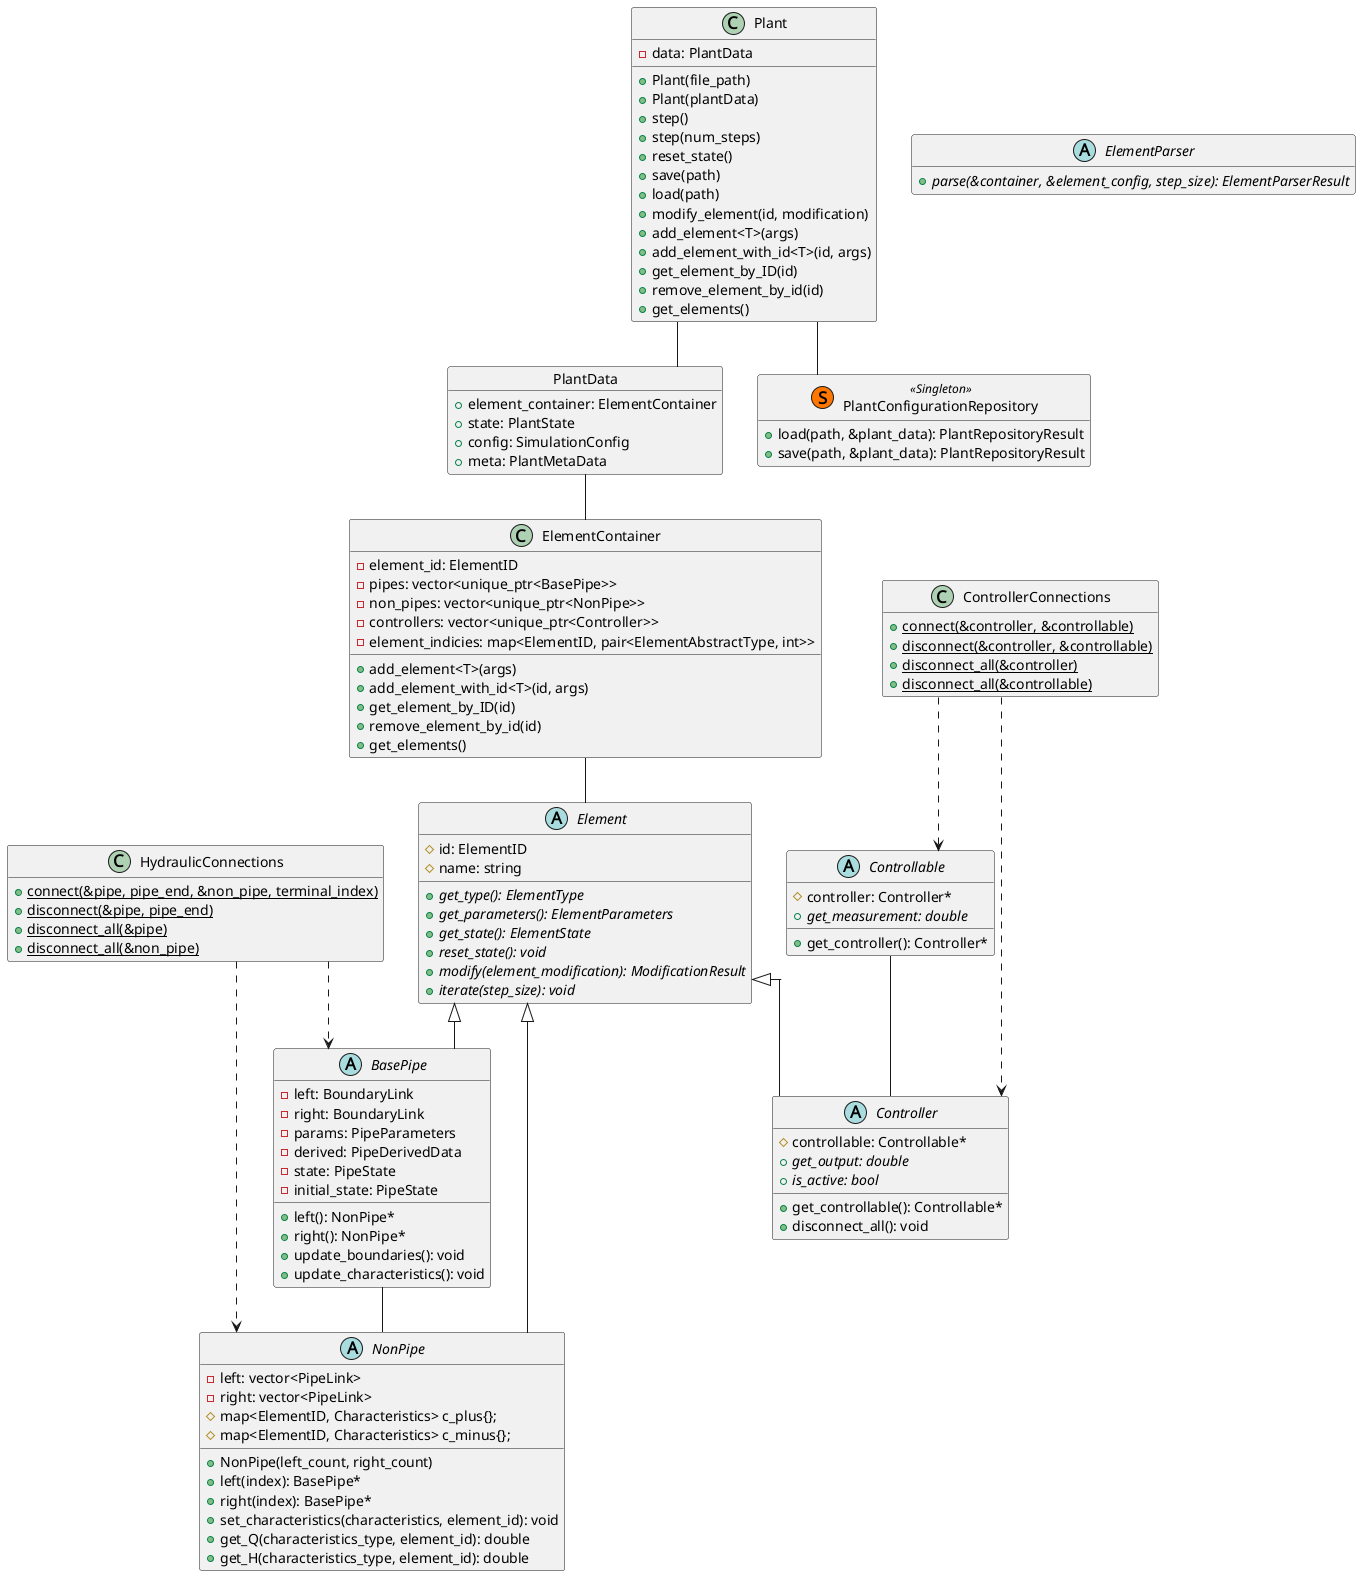
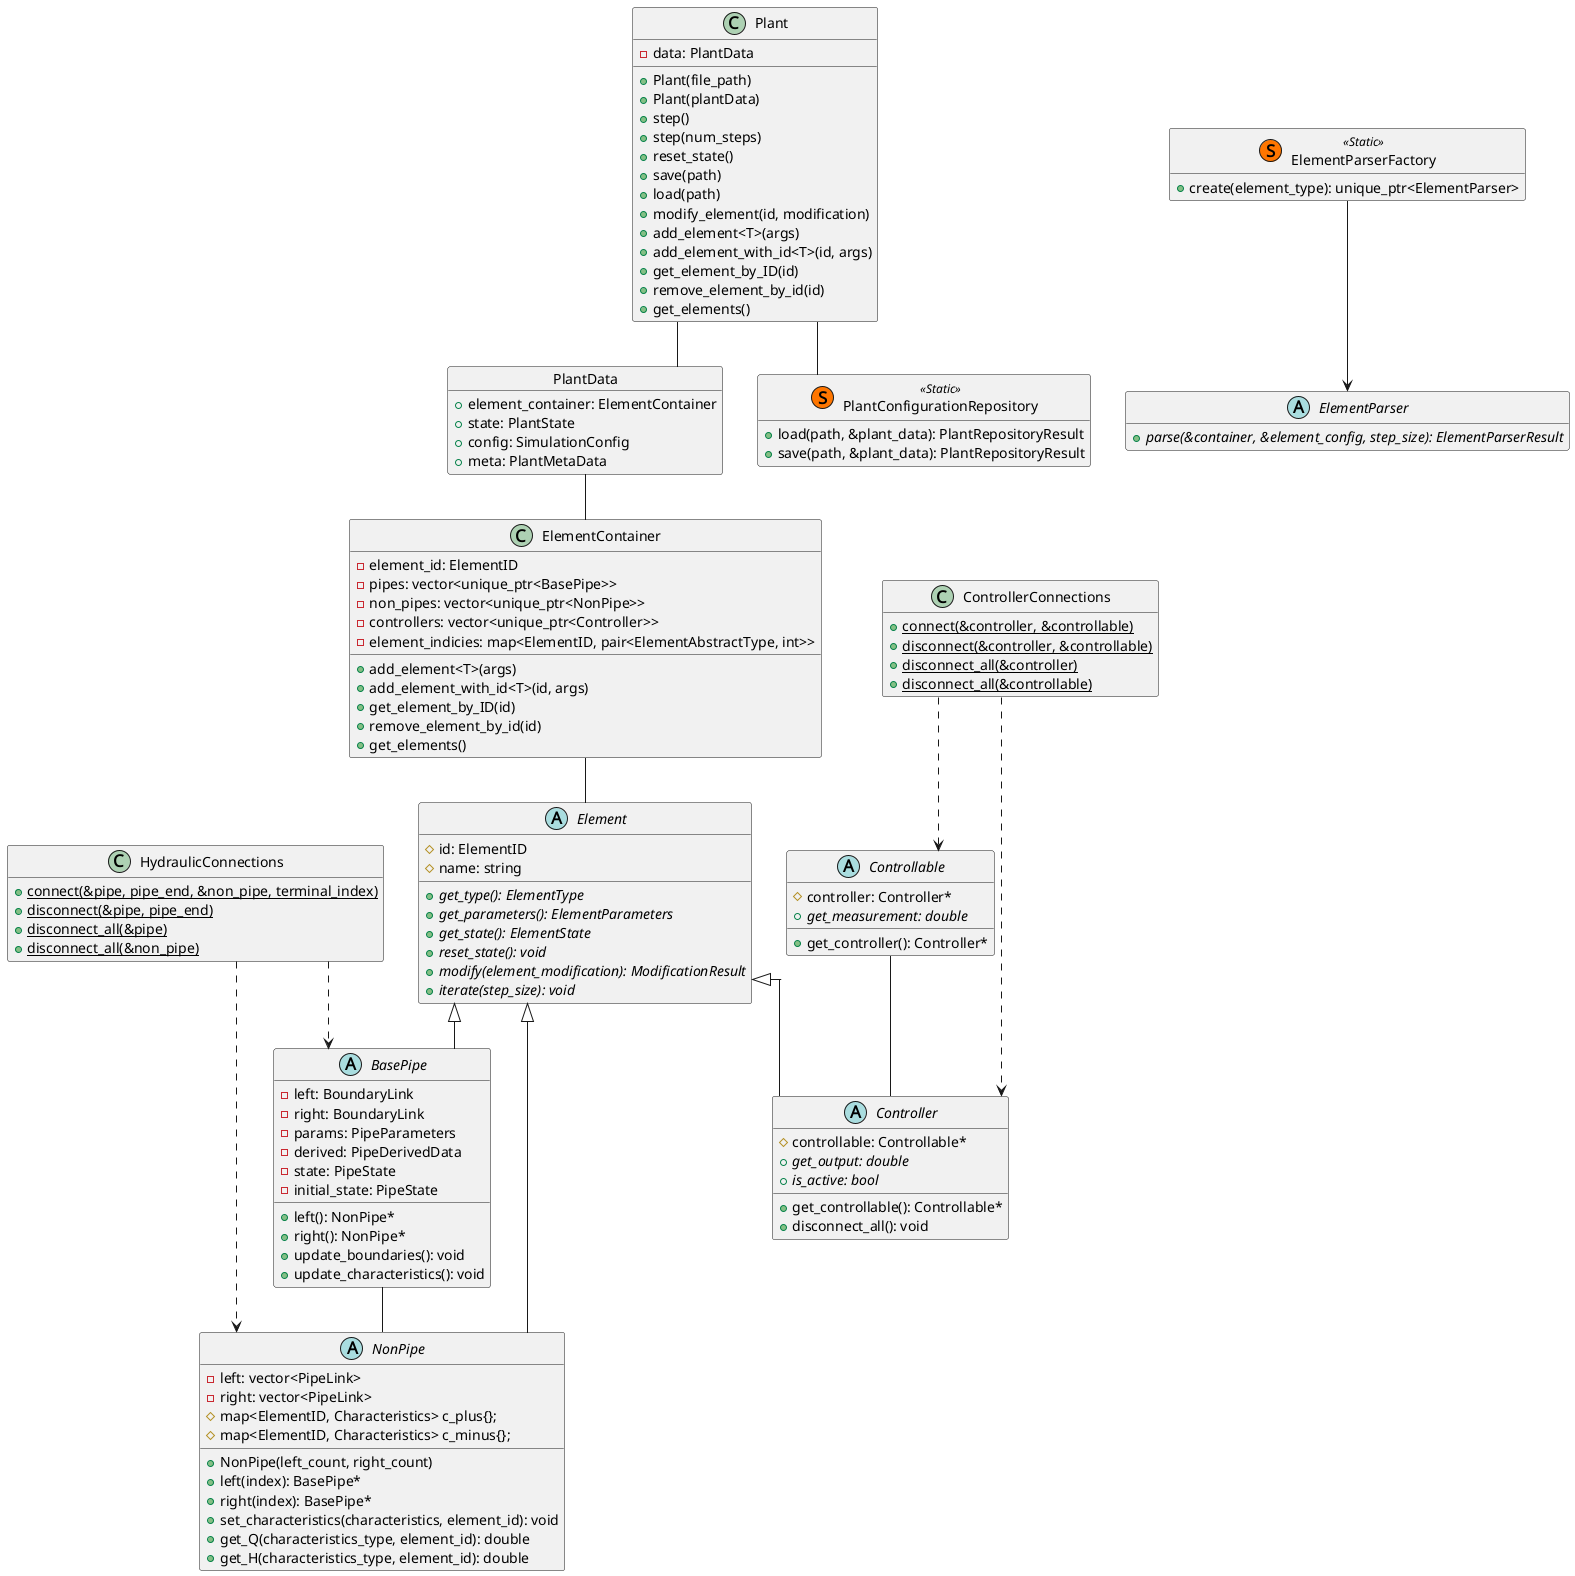
refactor: rename ParserFactory -> ElementParserFactory

diff --git a/src/config/plant_config_repository.cpp b/src/config/plant_config_repository.cpp
@@ -47,7 +47,7 @@ PlantRepositoryResult PlantConfigRepository::load(
 
   // Add elements
   for (auto& element : config.elements) {
-    auto parser = ParserFactory::create(element.type);
+    auto parser = ElementParserFactory::create(element.type);
 
     if (!parser || parser->parse(container, element, plant.config.step_size) ==
                        ElementParseResult::Error) {

diff --git a/src/config/element_parsers.cpp b/src/config/element_parsers.cpp
@@ -120,7 +120,7 @@ ElementParseResult SurgeShaftStandardParser::parse(ElementContainer& container,
   return ElementParseResult::Success;
 }
 
-std::unique_ptr<ElementParser> ParserFactory::create(ElementType type) {
+std::unique_ptr<ElementParser> ElementParserFactory::create(ElementType type) {
   switch (type) {
     case ElementType::Pipe:
     case ElementType::AlgebraicPipe:

diff --git a/include/lvtrans/config/element_parsers.hpp b/include/lvtrans/config/element_parsers.hpp
@@ -70,7 +70,7 @@ class SurgeShaftStandardParser : public ElementParser {
 };
 
 // create a parser depending on the element type
-class ParserFactory {
+class ElementParserFactory {
  public:
   static std::unique_ptr<ElementParser> create(ElementType type);
 };
